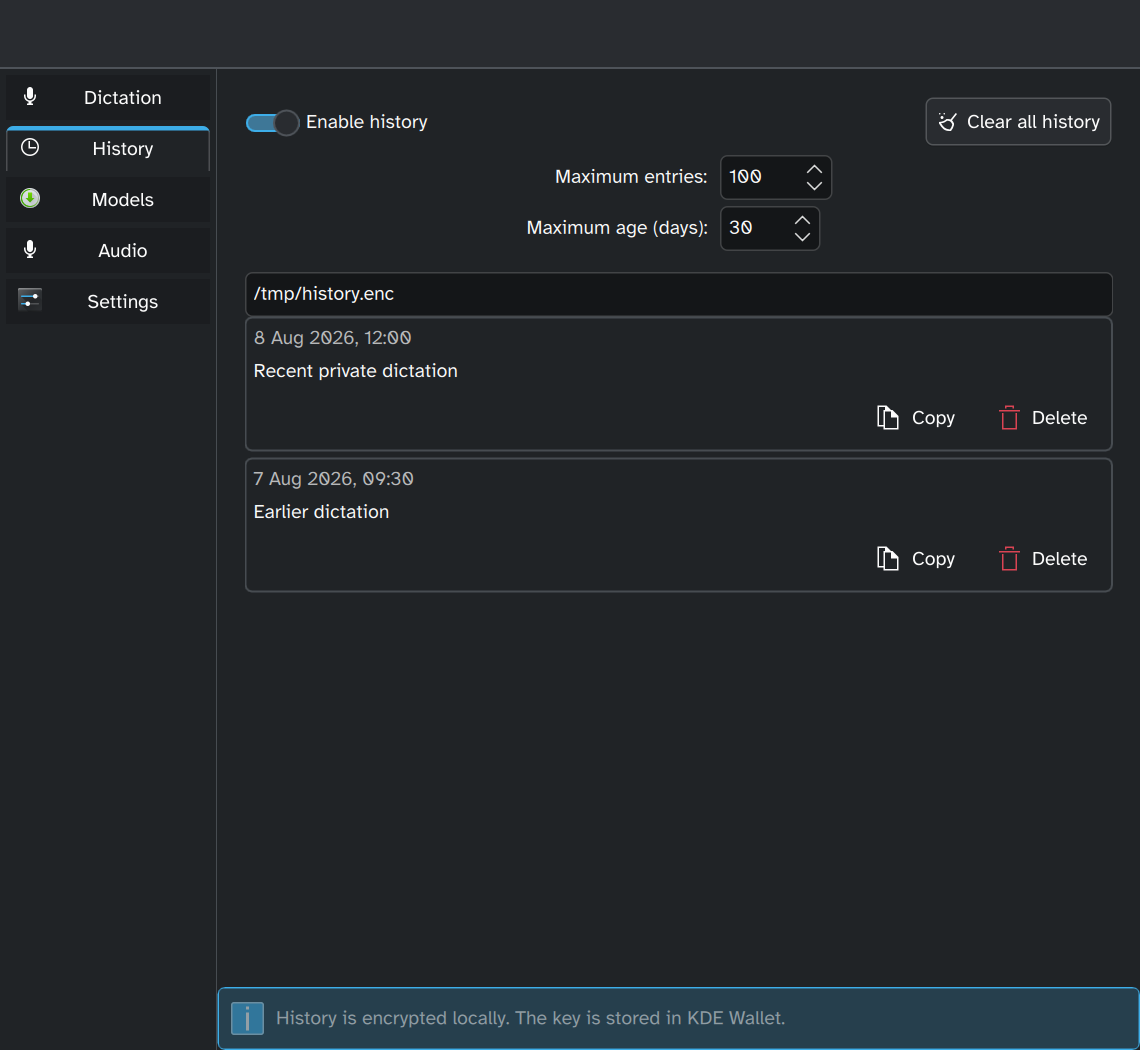
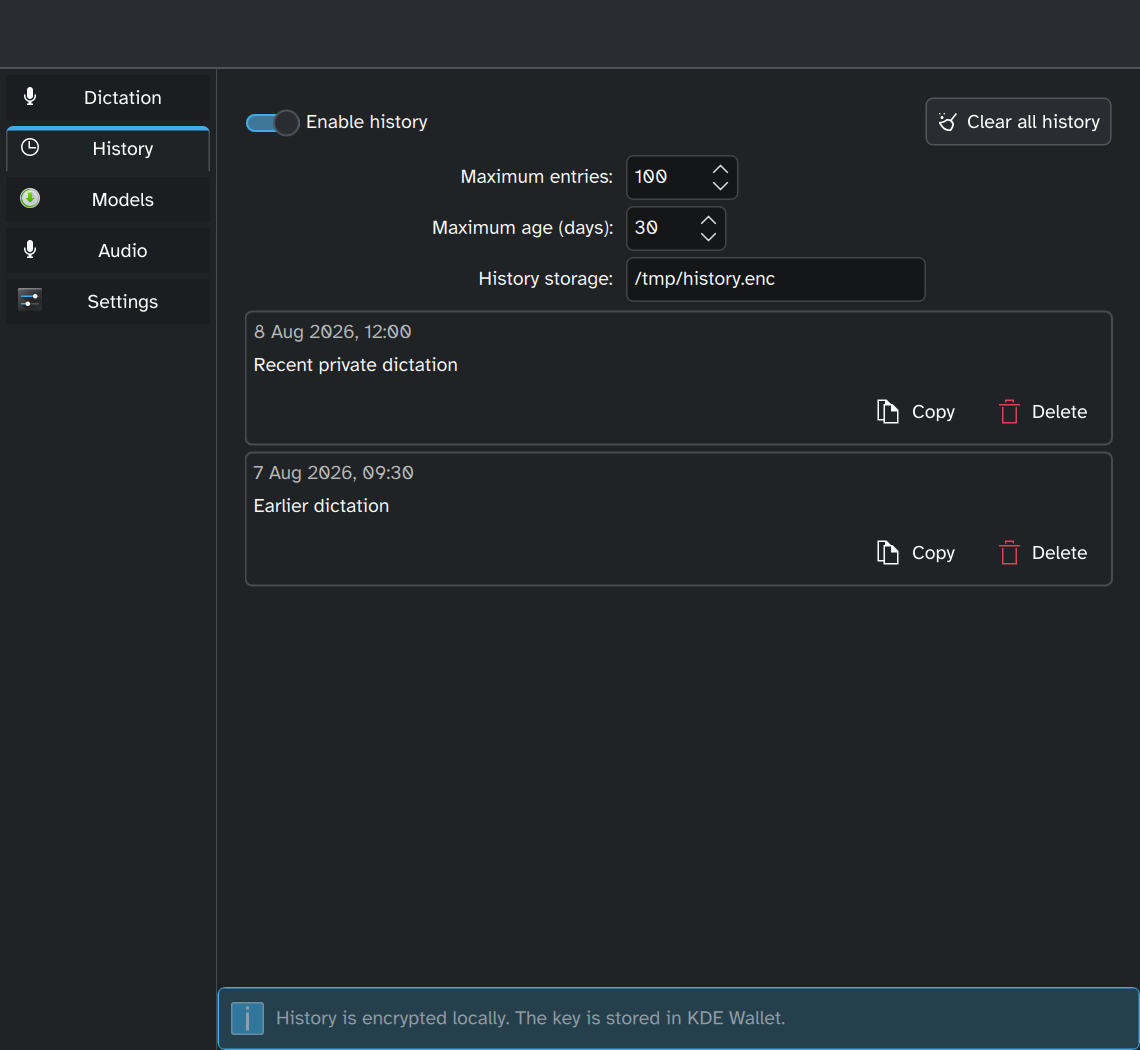
Label storage paths

diff --git a/src/qml/Main.qml b/src/qml/Main.qml
@@ -307,26 +307,26 @@ Kirigami.ApplicationWindow {
                             onValueModified: appController.history.maximumAgeDays = value
                             Accessible.name: i18n("Maximum history age in days")
                         }
-                    }
 
-                    Controls.TextField {
-                        objectName: "historyStoragePath"
-                        Layout.fillWidth: true
-                        visible: appController.history.enabled
-                        readOnly: true
-                        selectByMouse: true
-                        text: appController.history.storagePath
-                        Accessible.name: i18n("Encrypted history storage path")
-                        Accessible.description: i18n("Click to copy the storage path")
-                        function copyPath() {
-                            selectAll()
-                            root.copyStoragePath(text)
-                        }
+                        Controls.TextField {
+                            objectName: "historyStoragePath"
+                            Kirigami.FormData.label: i18n("History storage:")
+                            Layout.fillWidth: true
+                            readOnly: true
+                            selectByMouse: true
+                            text: appController.history.storagePath
+                            Accessible.name: i18n("Encrypted history storage path")
+                            Accessible.description: i18n("Click to copy the storage path")
+                            function copyPath() {
+                                selectAll()
+                                root.copyStoragePath(text)
+                            }
 
-                        MouseArea {
-                            anchors.fill: parent
-                            cursorShape: Qt.PointingHandCursor
-                            onClicked: parent.copyPath()
+                            MouseArea {
+                                anchors.fill: parent
+                                cursorShape: Qt.PointingHandCursor
+                                onClicked: parent.copyPath()
+                            }
                         }
                     }
 
@@ -401,7 +401,7 @@ Kirigami.ApplicationWindow {
             property string selectedFilter: "recommended"
 
             header: Controls.Pane {
-                padding: Kirigami.Units.smallSpacing
+                padding: Kirigami.Units.largeSpacing
 
                 contentItem: ColumnLayout {
                     spacing: Kirigami.Units.smallSpacing
@@ -444,23 +444,28 @@ Kirigami.ApplicationWindow {
                         }
                     }
 
-                    Controls.TextField {
-                        objectName: "modelStoragePath"
+                    Kirigami.FormLayout {
                         Layout.fillWidth: true
-                        readOnly: true
-                        selectByMouse: true
-                        text: appController.modelManager.storagePath
-                        Accessible.name: i18n("Model storage path")
-                        Accessible.description: i18n("Click to copy the storage path")
-                        function copyPath() {
-                            selectAll()
-                            root.copyStoragePath(text)
-                        }
 
-                        MouseArea {
-                            anchors.fill: parent
-                            cursorShape: Qt.PointingHandCursor
-                            onClicked: parent.copyPath()
+                        Controls.TextField {
+                            objectName: "modelStoragePath"
+                            Kirigami.FormData.label: i18n("Model storage:")
+                            Layout.fillWidth: true
+                            readOnly: true
+                            selectByMouse: true
+                            text: appController.modelManager.storagePath
+                            Accessible.name: i18n("Model storage path")
+                            Accessible.description: i18n("Click to copy the storage path")
+                            function copyPath() {
+                                selectAll()
+                                root.copyStoragePath(text)
+                            }
+
+                            MouseArea {
+                                anchors.fill: parent
+                                cursorShape: Qt.PointingHandCursor
+                                onClicked: parent.copyPath()
+                            }
                         }
                     }
                 }
